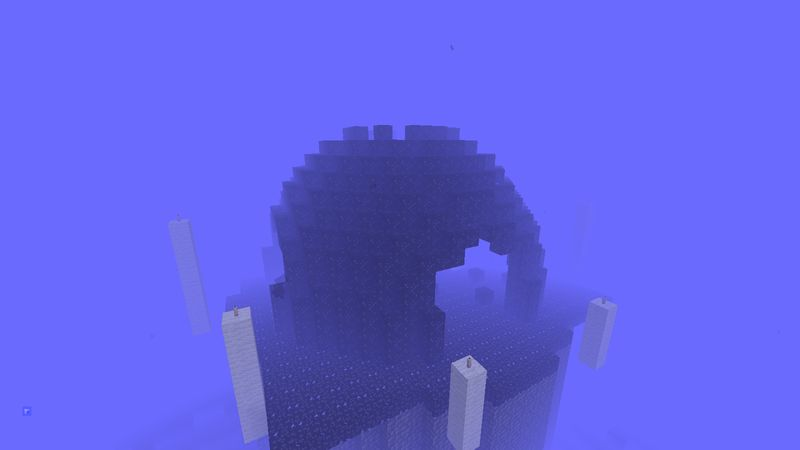
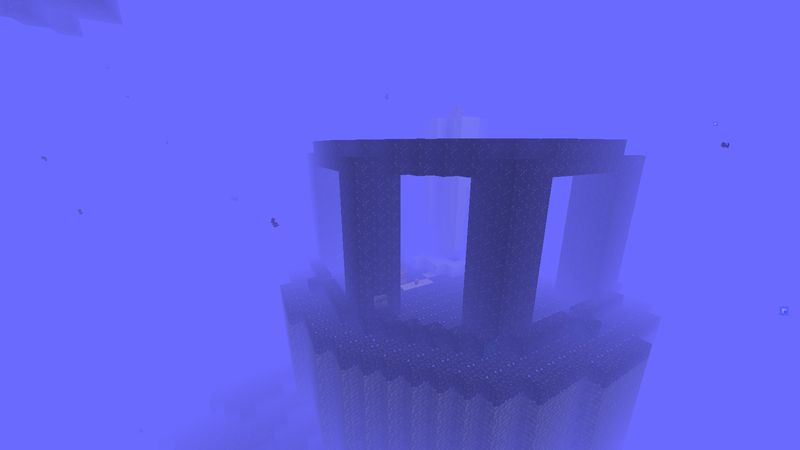
Prepare the 0.8.0 release: changelog, README, the rebuilt wonders' photos on the site

Changed region(s): [[0.1875, 0.28, 0.8125, 1.0], [0.0, 0.0, 0.1562, 0.0622]]

diff --git a/CHANGELOG.md b/CHANGELOG.md
@@ -1,5 +1,30 @@
 # Changelog
 
+## 0.8.0 (alpha)
+
+The wonders can be found and are worth finding: the worlds' people point at them, every relic gives its world's gift, a group shares the reliquary, and the Journal draws a map of every world.
+
+### Wonders and relics
+
+- The people of every world speak of its wonder: one greeting in two, while its relic is still to be found, they say in which direction it stands and how far. The Journal's world card keeps what they said.
+- Every relic gives, besides its heart, a gift of its world: the relics of Worlds 1, 2, 5 and 7 make Toxin, Heat, Noise and the loss of breath a quarter slower (World 10 has all four rules); the others give luck in chests, faster attacks, safe falls, speed, less knockback or faster mining. The ten together add 4 armour.
+- A reliquary opened by one member of a group gives its relic to every member standing within 24 blocks, straight into their inventory.
+- The Last Candle is rebuilt as a great wax candle in a ring of open arches, and the Sleeping Giant as a giant lying on its back, face to the sky, moss grown over it.
+
+### Journal
+
+- A map of every world, from the world's card: the ground walked through inked in the world's colour, the places found drawn by role (people, combat, exploration, story, secret, wonder), the player as a small doll, and a legend of what has been found.
+
+### Music and sounds
+
+- Each of the twenty lesser biomes has its own variation of its world's theme, in the same mode, with its own tempo and lead instrument.
+- New sounds for the reliquary opening and refusing a key, for a relic taken in, and a quiet air near a wonder.
+
+### Checks
+
+- The game tests check that every world raises its wonder inside the group's parcel and that a relic eases its world's rule.
+- The CI's game runs on Minecraft 26.3 start at last: it gets a software Vulkan device beside Mesa's OpenGL.
+
 ## 0.7.0 (alpha)
 
 Every world hides a wonder with a sealed reliquary that only a key from another world opens, the Journal gives every world a card of its items, the Surface has more to find before the first boss, and every block, item, tool and armour piece is repainted.

diff --git a/README.md b/README.md
@@ -32,7 +32,8 @@ Matriochka is a progression mod for Minecraft Java 26.1.2, 26.2 and 26.3 (Fabric
 | Souls and karma | Every item holds a soul. Purify it or devour it at the Soul Altar. Karma changes prices, quests and people |
 | Doll of Life | Each layer saves you from one death. Soul Cradles let you respawn inside a world, death chests keep your items |
 | 110 structures | 11 types per world, generated procedurally, with journal pages and one hidden doll per world |
-| 10 wonders | One great place per world, with a reliquary that only another world's cross key opens and a relic that adds a heart for good |
+| 10 wonders | One great place per world, pointed at by its people, with a reliquary that only another world's cross key opens and a relic that gives a heart and its world's gift |
+| The Artisan's Journal | Quests, karma, every world's items and how to get them, and a map of every world inked as you walk it |
 | 64 quests, 100 achievements | Optional quest book in the Artisan's Journal and one advancement tab per world |
 
 <!-- gui -->
